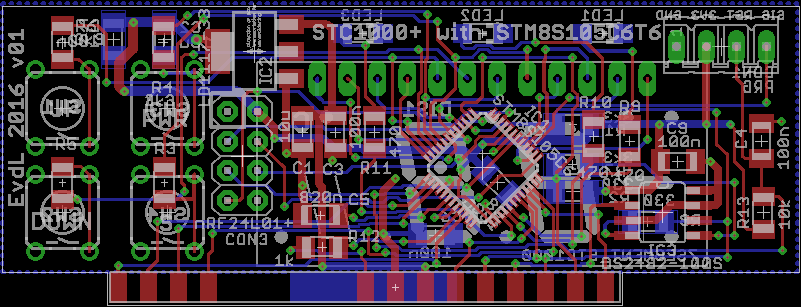
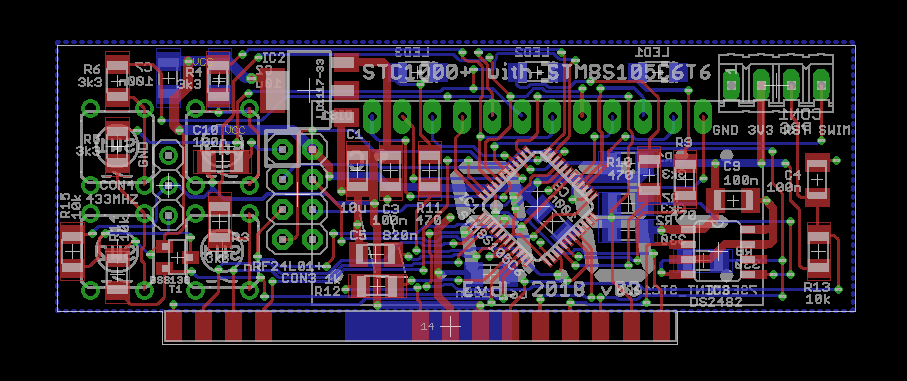
Frontpanel PCB update + new backplane PCB

diff --git a/README.md b/README.md
@@ -7,11 +7,12 @@ the stc-1000p-stm8 version (including the PID-control with SSR output), PLUS:
 - Interface for an **nRF24L01+** 2.4 GHz transceiver. Now you can control and communicate wireless with the STC1000p. The nRF24L01+ is known to have a large range (up to 100 metres is reported).
 - One-wire interface, so you can hook up a **DS18B20** One-Wire temperature-sensor for reliable temperature measurements.
 - **I<sup>2</sup>C**-interface for additional connection to other hardware (e.g. a MCP23017 16-bit IO expander to control solenoid ball valves).
-- Two additional IO lines called IO1 and IO2. One option could be to have a second pid-control / SSR-output (or even a third...). Or use it to control two pumps.
+- An UART interface so that commands can be sent using serial communication.
+- A 433 MHz transmitter interface is added so that temperatures and relay on/off are sent (using the Fine Offset protocol from Matts original fimware).
 
 The **STM8S105C6T6** µC has 32 Kbytes of Flash memory, 1024 bytes of EEPROM and 2 Kbytes of RAM. So there's plenty of room for all new functionality. It also has more than sufficient IO pins, since it is a LQFP48 package.
 
-I designed a new frontpanel PCB that is the exact same size as the current frontpanel PCB. So it fits the housing and connects easily to the backplane PCB.
+I designed a new frontpanel PCB and backplane PCB that are the exact same sizes as the current PCBs. So it fits the existing housing.
 
 Software Development Environment
 -----------
@@ -32,22 +33,41 @@ To be filled in...
 
 Frontpanel PCB
 ----------
-Here's the first version of the new frontpanel PCB.
+Here's the second version of the new frontpanel PCB.
 
 ![frontpanel](img/stc1000p_steroids_schematics.png)<br>
-*Eagle schematic of the Frontpanel with an STM8S105C6 µC*
+*Eagle schematics v0.21 of the Frontpanel with an STM8S105C6 µC*
 
 ![frontpanel](img/stc1000p_steroids_pcb.png)<br>
-*Eagle PCB of the Frontpanel, v01*
+*Eagle PCB of the Frontpanel, v0.21*
 
 ![frontpanel](img/Frontpanel_pcb.jpg)<br>
-*PCBs as received from the PCB manufacturer.*
+*PCB as received from the PCB manufacturer (allpcb.com).*
 
 Backplane PCB
 ----------
-Although you can connect the frontpanel PCB directly to an existing backplane, it is much more fun to replace this with a new backplane. Main advantage is that you will have decent access to all new features via connectors at the back.
+Although it is possible to connect the frontpanel PCB directly to an existing backplane, it is much useful to replace this with a new backplane. Main advantage is that you will have decent access to all new features via connectors at the back.
 
-Current status: the design has to be made yet.
+![backplane](img/stc1000p_backplane_schematics.png)<br>
+*Eagle schematics of the new backplane*
+
+![backplane](img/stc1000p_backplane_pcb.png)<br>
+*Eagle PCB of the new backplane*
+
+![backplane](img/Backplane_pcb.jpg)<br>
+*PCB as received from the PCB manufacturer (allpcb.com).*
+
+There's now a 10 pole terminal-block with the following connections:
+**T2**: connect a temperature sensor to this pin and the +5V pin (same as in original STC1000)
+**+5V**: +5V power-supply voltage (same as in original STC1000)
+**T1**: connect a second temperature sensor to this pin and the +5V pin (same as for Matts firmware)
+**GND**: ground (0 V) connection. 
+**SSR**: SSR output. Connect this to the input line of a solid-state relay. This is a PID controlled output.
+**SCL**: Serial clock-line of the I<sup>2</sup>C interface.
+**SDA**: Serial data-line of the I<sup>2</sup>C interface.
+**OW**: One-wire output. Support a DS18B20 temperature sensor for more accurate readings.
+**RX**: Receive-data pin for the serial communication (UART). This is a 3.3 Volt pin, so do not connect higher voltages!
+**TX**: Transmit-data pin for the serial communication (UART). This is a 3.3 Volt pin, so do not connect higher voltages!
 
 Updates
 -------
@@ -55,4 +75,5 @@ Updates
 |Date|Release|Description|
 |----|-------|-----------|
 |2016-12-10|v1.00|First release |
+|2018-03-23|v1.10|Frontpanel PCB update + new backplane PCB added|
 
